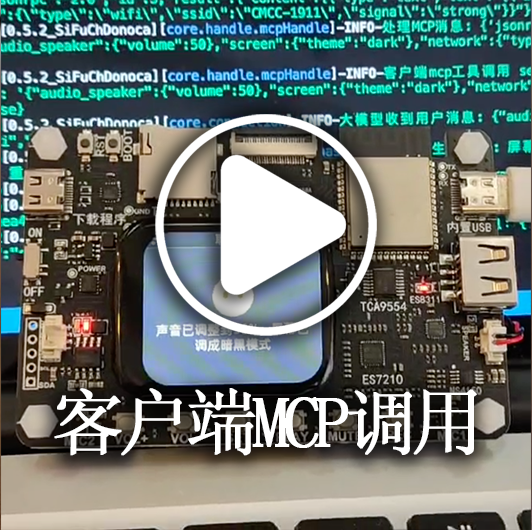
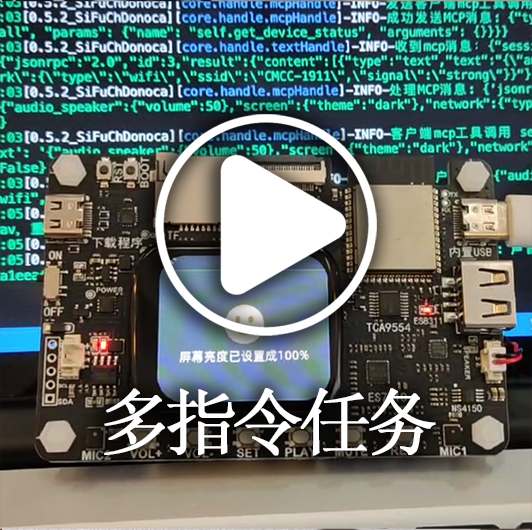
udpate:添加拍照识物教程

diff --git a/docs/mcp-vision-integration.md b/docs/mcp-vision-integration.md
@@ -1,0 +1,171 @@
+# 视觉模型使用指南
+本教程分为两部分：
+- 第一部分：单模块运行xiaozhi-server开启视觉模型
+- 第二部分：全模块运行时，如何开启视觉模型
+
+开启视觉模型前，你需要准备三件事：
+- 你需要准备一台带摄像头的设备，而且这台设备已经在虾哥仓库里，实现了调用摄像头功能。例如`立创·实战派ESP32-S3开发板`
+- 你设备固件的版本升级到1.6.6及以上
+- 你已经成功跑通基础对话模块
+
+## 单模块运行xiaozhi-server开启视觉模型
+
+### 第一步确认网络
+由于视觉模型会默认启动8003端口。
+
+如果你是docker运行，请确认一下你的`docker-compose.yml`是否放了`8003`端口，如果没有就更新最新的`docker-compose.yml`文件
+
+如果你是源码运行，确认防火墙是否放行`8003`端口
+
+### 第二步选择你的视觉模型
+打开你的`data/.config.yaml`文件，设置你的`selected_module.VLLM`设置为某个视觉模型。目前我们已经支持`openai`类型接口的视觉模型。`ChatGLMVLLM`就是其中一款兼容`openai`的模型。
+
+```
+selected_module:
+  VAD: ..
+  ASR: ..
+  LLM: ..
+  VLLM: ChatGLMVLLM
+  TTS: ..
+  Memory: ..
+  Intent: ..
+```
+
+假设我们使用`ChatGLMVLLM`作为视觉模型，那我们需要先登录[智谱AI](https://bigmodel.cn/usercenter/proj-mgmt/apikeys)网站，申请密钥。如果你之前已经申请过了密钥，可以复用这个密钥。
+
+在你的配置文件中，增加这个配置，如果已经有了这个配置，就设置好你的api_key。
+
+```
+VLLM:
+  ChatGLMVLLM:
+    api_key: 你的api_key
+```
+
+### 第三步启动xiaozhi-server服务
+如果你是源码，就输入命令启动
+```
+python app.py
+```
+如果你是docker运行，就重启容器
+```
+docker restart xiaozhi-esp32-server
+```
+
+启动后会输出以下内容的日志。
+
+```
+2025-06-01 **** - OTA接口是           http://192.168.4.7:8003/xiaozhi/ota/
+2025-06-01 **** - 视觉分析接口是        http://192.168.4.7:8003/mcp/vision/explain
+2025-06-01 **** - Websocket地址是       ws://192.168.4.7:8000/xiaozhi/v1/
+2025-06-01 **** - =======上面的地址是websocket协议地址，请勿用浏览器访问=======
+2025-06-01 **** - 如想测试websocket请用谷歌浏览器打开test目录下的test_page.html
+2025-06-01 **** - =============================================================
+```
+
+启动后，使用使用浏览器打开日志里`视觉分析接口`连接。看看输出了什么？如果你是linux,没有浏览器，你可以执行这个命令：
+```
+curl -i 你的视觉分析接口
+```
+
+正常来说会这样显示
+```
+MCP Vision 接口运行正常，视觉解释接口地址是：http://xxxx:8003/mcp/vision/explain
+```
+
+请注意，如果你是公网部署，或者docker部署，一定要改一下你的`data/.config.yaml`里这个配置
+```
+server:
+  vision_explain: http://你的ip或者域名:端口号/mcp/vision/explain
+```
+
+为什么呢？因为视觉解释接口需要下发到设备，如果你的地址是局域网地址，或者是docker内部地址，设备是无法访问的。
+
+假设你的公网地址是`111.111.111.111`，那么`vision_explain`应该这么配
+
+```
+server:
+  vision_explain: http://111.111.111.111:8003/mcp/vision/explain
+```
+
+如果你的MCP Vision 接口运行正常，且你也试着用浏览器访问正常打开下发的`视觉解释接口地址`，请继续下一步
+
+### 第四步 设备唤醒开启
+
+对设备说“请打开摄像头，说你你看到了什么”
+
+留意xiaozhi-server的日志输出，看看有没有报错。
+
+
+## 全模块运行时，如何开启视觉模型
+
+### 第一步 确认网络
+由于视觉模型会默认启动8003端口。
+
+如果你是docker运行，请确认一下你的`docker-compose_all.yml`是否映射了`8003`端口，如果没有就更新最新的`docker-compose_all.yml`文件
+
+如果你是源码运行，确认防火墙是否放行`8003`端口
+
+### 第二步 确认你配置文件
+
+打开你的`data/.config.yaml`文件，确认一下你的配置文件的结构，是否和`data/config_from_api.yaml`一样。如果不一样，或缺少某项，请补齐。
+
+### 第三步 配置视觉模型密钥
+
+那我们需要先登录[智谱AI](https://bigmodel.cn/usercenter/proj-mgmt/apikeys)网站，申请密钥。如果你之前已经申请过了密钥，可以复用这个密钥。
+
+登录`智控台`，顶部菜单点击`模型配置`，在左侧栏点击`视觉打语言模型`，找到`VLLM_ChatGLMVLLM`，点击修改按钮，在弹框中，在`API密钥`输入你密钥，点击保存。
+
+保存成功后，去到你需要测试的智能体哪里，点击`配置角色`，在打开的内容里，查看`视觉大语言模型(VLLM)`是否选择了刚才的视觉模型。点击保存。
+
+### 第三步 启动xiaozhi-server模块
+如果你是源码，就输入命令启动
+```
+python app.py
+```
+如果你是docker运行，就重启容器
+```
+docker restart xiaozhi-esp32-server
+```
+
+启动后会输出以下内容的日志。
+
+```
+2025-06-01 **** - 视觉分析接口是        http://192.168.4.7:8003/mcp/vision/explain
+2025-06-01 **** - Websocket地址是       ws://192.168.4.7:8000/xiaozhi/v1/
+2025-06-01 **** - =======上面的地址是websocket协议地址，请勿用浏览器访问=======
+2025-06-01 **** - 如想测试websocket请用谷歌浏览器打开test目录下的test_page.html
+2025-06-01 **** - =============================================================
+```
+
+启动后，使用使用浏览器打开日志里`视觉分析接口`连接。看看输出了什么？如果你是linux,没有浏览器，你可以执行这个命令：
+```
+curl -i 你的视觉分析接口
+```
+
+正常来说会这样显示
+```
+MCP Vision 接口运行正常，视觉解释接口地址是：http://xxxx:8003/mcp/vision/explain
+```
+
+请注意，如果你是公网部署，或者docker部署，一定要改一下你的`data/.config.yaml`里这个配置
+```
+server:
+  vision_explain: http://你的ip或者域名:端口号/mcp/vision/explain
+```
+
+为什么呢？因为视觉解释接口需要下发到设备，如果你的地址是局域网地址，或者是docker内部地址，设备是无法访问的。
+
+假设你的公网地址是`111.111.111.111`，那么`vision_explain`应该这么配
+
+```
+server:
+  vision_explain: http://111.111.111.111:8003/mcp/vision/explain
+```
+
+如果你的MCP Vision 接口运行正常，且你也试着用浏览器访问正常打开下发的`视觉解释接口地址`，请继续下一步
+
+### 第四步 设备唤醒开启
+
+对设备说“请打开摄像头，说你你看到了什么”
+
+留意xiaozhi-server的日志输出，看看有没有报错。

diff --git a/README.md b/README.md
@@ -130,13 +130,18 @@
         </a>
     </td>
     <td>
-      <a href="https://www.bilibili.com/video/BV1TJ7WzzEo6" target="_blank">
+      <a href="https://www.bilibili.com/video/BV1Co76z7EvK" target="_blank">
          <picture>
-           <img alt="客户端MCP" src="docs/images/demo11.png" />
+           <img alt="拍照识物品" src="docs/images/demo12.png" />
          </picture>
         </a>
     </td>
     <td>
+      <a href="https://www.bilibili.com/video/BV1TJ7WzzEo6" target="_blank">
+         <picture>
+           <img alt="多指令任务" src="docs/images/demo11.png" />
+         </picture>
+        </a>
     </td>
     <td>
     </td>

diff --git a/docs/FAQ.md b/docs/FAQ.md
@@ -108,7 +108,11 @@ VAD:
 
 参考教程[阿里云短信集成指南](./ali-sms-integration.md)
 
-### 9、更多问题，可联系我们反馈 💬
+### 9、如何开启视觉模型实现拍照识物 📷
+
+参考教程[视觉模型使用指南](./mcp-vision-integration.md)
+
+### 10、更多问题，可联系我们反馈 💬
 
 可以在[issues](https://github.com/xinnan-tech/xiaozhi-esp32-server/issues)提交您的问题。
 
